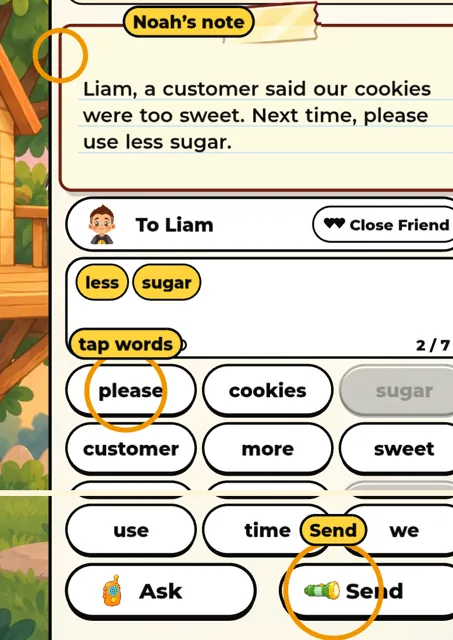
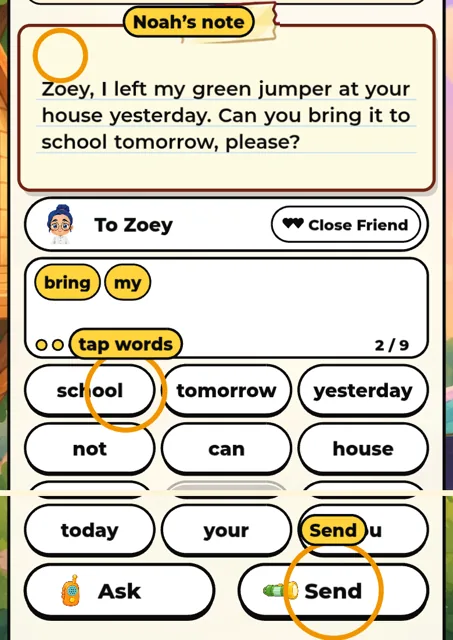
Add files via upload

diff --git a/src/modules/torch-talk/GameScene.js b/src/modules/torch-talk/GameScene.js
@@ -3,7 +3,7 @@ import { ModuleScene } from '../../core/ModuleScene.js';
 import { C, hex, FONT } from '../../core/theme.js';
 import { sfx } from '../../core/sfx.js';
 import { charImg } from '../../core/ui/dom.js';
-import { buildRound, trayOrder, QUESTIONS, TAGS, ITEM_BANK_VERSION, TUTORIAL_VERSION, tutorialMemo } from './forms.js';
+import { buildRound, trayOrder, QUESTIONS, TAGS, ITEM_BANK_VERSION, TUTORIAL_VERSION, tutorialMemo, ITEMS } from './forms.js';
 import { check, fixPasses, slotsFor, nicknames, points, ratio } from './checker.js';
 import { score, turnPoints, REACTIONS } from './scoring.js';
 import bgUrl from './assets/bg-garden.webp';
@@ -13,6 +13,7 @@ import notebookUrl from './assets/notebook.webp';
 import walkieUrl from './assets/walkie.webp';
 import pencilUrl from './assets/pencil.webp';
 import tapeUrl from './assets/tape.webp';
+import nickUrl from './assets/howto-1.webp'; // the nickname rule card's picture (request #39), reused before try-it step 4
 
 // Fixed animation budget (identical for everyone). ?speed=N (local/mock only) speeds it up for automated tests.
 const q = new URLSearchParams(location.search);
@@ -26,6 +27,7 @@ const NAMES = { liam: 'Liam', mia: 'Mia', zoey: 'Zoey', noah: 'Noah', raj: 'Raj'
 const ICON = { when: '🕒', where: '📍', who: '👤', what: '📦', howmany: '🔢' };
 // Raj and Amira are supporting characters with busts only (no full-body 'front' pose): their resting pose is 'happy'.
 const REST = (who) => (who === 'raj' || who === 'amira' ? 'happy' : 'front');
+export const RULE_CARD = { title: 'Who knows your nicknames?', body: 'Close Friends (Liam, Mia, Zoey) know your nicknames like Den. Casual Acquaintances (Raj, Amira) don’t, so spell out the real place.' };
 const HELP = '✂ Short   🎯 Say what to do   👤 Who’s reading?   ❓ Ask';
 const FAIL_TEXT = { missing: 'Hmm, something’s missing.', breaker: 'That’s not what the note says!', negated: 'That says the opposite!', order: 'The words are in a confusing order.', bind: 'Who does what? It’s mixed up.', between: 'The words are in a confusing order.' };
 /** Words in the note (italics markers and punctuation stripped), for the paraphrase signal. */
@@ -53,7 +55,7 @@ const norm = (w) => w.replace(/[^A-Za-z0-9'’\-é]/g, '').replace('’', "'").t
 
 export default class GameScene extends ModuleScene {
   preload() {
-    const imgs = { 'tt-bg': bgUrl, 'tt-torch': torchUrl, 'tt-slip': slipUrl, 'tt-notebook': notebookUrl, 'tt-walkie': walkieUrl, 'tt-pencil': pencilUrl, 'tt-tape': tapeUrl };
+    const imgs = { 'tt-bg': bgUrl, 'tt-torch': torchUrl, 'tt-slip': slipUrl, 'tt-notebook': notebookUrl, 'tt-walkie': walkieUrl, 'tt-pencil': pencilUrl, 'tt-tape': tapeUrl, 'tt-nick': nickUrl };
     Object.entries(imgs).forEach(([k, u]) => { if (!this.textures.exists(k)) this.load.image(k, u); });
     const poses = { noah: ['happy', 'worried', 'excited', 'threequarter'], liam: ['front', 'happy', 'worried', 'excited'], mia: ['front', 'happy', 'worried', 'excited'], zoey: ['front', 'happy', 'worried', 'excited'], raj: ['happy', 'worried', 'excited'], amira: ['happy', 'worried', 'excited'] };
     for (const [c, ps] of Object.entries(poses)) for (const p of ps) if (!this.textures.exists(`${c}-${p}`)) this.load.image(`${c}-${p}`, charImg(c, p));
@@ -166,6 +168,7 @@ export default class GameScene extends ModuleScene {
 
   nextTurn() {
     this.clearIdle();
+    if (this.tut && this.items[this.turnIdx + 1]?.id === 'G4a' && !this.ruleCardDone) { this.ruleCardDone = true; return this.ruleCard(() => this.nextTurn()); }
     this.turnIdx++;
     if (this.turnIdx >= this.items.length) return this.endRound();
     const it = (this.item = this.items[this.turnIdx]);
@@ -182,6 +185,21 @@ export default class GameScene extends ModuleScene {
     this.panel.setPosition(this.W, 0); this.tweens.add({ targets: this.panel, x: 0, duration: ms('noteIn'), ease: 'Cubic.easeOut' });
     sfx.play('whoosh');
     this.armIdle();
+  }
+
+  /** Request #39: the explicit nickname rule, shown once before try-it step 4 (the same words and picture as how-to card 2). */
+  ruleCard(then) {
+    this.phase = 'rule'; const { W } = this, v = this.view(), t0 = performance.now();
+    const c = this.add.container(0, 0).setDepth(960);
+    c.add(this.add.rectangle(W / 2, this.H / 2, v.vw + 40, v.vh + 40, hex(C.ink), 0.55).setInteractive());
+    const top = Math.max(v.top + 60, 150), h = 980;
+    c.add(this.add.graphics().fillStyle(hex(C.cream), 1).fillRoundedRect(40, top, W - 80, h, 36).lineStyle(5, hex(C.ink), 1).strokeRoundedRect(40, top, W - 80, h, 36));
+    c.add(this.txt(W / 2, top + 64, RULE_CARD.title, { fontSize: '40px' }));
+    c.add(this.txt(W / 2, top + 170, RULE_CARD.body, { fontSize: '27px', fontStyle: '600', wordWrap: { width: W - 150 }, lineSpacing: 4 }));
+    const img = this.add.image(W / 2, top + 290, 'tt-nick').setOrigin(0.5, 0); img.setScale(Math.min((W - 130) / img.width, 520 / img.height)); c.add(img);
+    const ok = this.btn(W / 2, top + h - 70, 'Got it', () => { this.ruleOk = null; c.destroy(); this.trace('tt_rulecard', { ms: Math.round(performance.now() - t0) }); then(); }, { w: 320 });
+    c.add(ok); this.ruleOk = () => ok.emit('pointerup'); // test hook
+    this.ruleCardShown = true;
   }
 
   // ---------------------------------------------------------------- panel rendering
@@ -507,7 +525,7 @@ export default class GameScene extends ModuleScene {
     this.clearIdle(); this.hideOverlay();
     const it = this.item, words = [...this.msg];
     if (this.setbackAt && this.phase === 'compose') { this.trace('comm_setback_next', { msToNextSend: Math.round(performance.now() - this.setbackAt), action: 'continue' }); this.setbackAt = null; }
-    let outcome;
+    let outcome; this.sentFix = this.phase === 'fix';
     if (this.phase === 'fix') {
       const pass = fixPasses(words, it);
       this.fix = { words, pass };
@@ -572,9 +590,10 @@ export default class GameScene extends ModuleScene {
     const label = outcome === 'echo' ? `${it.mixup.echo}?` : outcome === 'pass' ? '✓' : '✗';
     this.slip.add([s, this.txt(10, 8, label, { fontSize: outcome === 'echo' ? '52px' : '84px', color: outcome === 'pass' ? C.green : outcome === 'fail' ? C.red : C.ink })]);
     this.slip.setAlpha(1).setScale(0.3); this.tweens.add({ targets: this.slip, scale: 1, duration: 260, ease: 'Back.easeOut' });
-    const hold = ms('react');
+    if (outcome === 'pass' && !this.sentFix && this.cur && (!this.tut || this.cur.stepOk)) this.resultLine(this.cur);
+    const hold = ms('react') + (this.resultPill ? 700 / SPEED : 0); // a little longer to read the points line
     this.time.delayedCall(hold, () => {
-      this.slip.setAlpha(0); this.notebook.setAlpha(0); this.nbText.setAlpha(0);
+      this.slip.setAlpha(0); this.notebook.setAlpha(0); this.nbText.setAlpha(0); this.resultPill?.destroy(); this.resultPill = null;
       this.pose(this.noah, 'noah', 'happy'); this.pose(this.friend, it.recipient, REST(it.recipient));
       if (outcome === 'echo') { this.phase = 'fix'; this.cap = FIX_CAP; this.msg = []; this.renderPanel(); this.slideUp(); this.armIdle(); return; }
       if (this.tut && !this.cur.stepOk) return this.retryStep(this.cur);
@@ -583,6 +602,20 @@ export default class GameScene extends ModuleScene {
       if (this.tut) this.floatText(this.W / 2, this.L.barY - 20, this.tries === 1 ? 'First try!' : '✓ Got it', C.green);
       this.endTurn();
     });
+  }
+
+  /** Request #39: a passed message shows its points, so a padded one visibly earns less ("Got it · 4/10 · long message"). */
+  resultLine(rec) {
+    const base = rec.base ?? rec.points, why = [];
+    if (base < 10) why.push(rec.used > rec.ideal ? 'long message' : 'could be clearer');
+    if (rec.points < base) why.push(`asks −${base - rec.points}`);
+    const text = [`Got it · ${rec.points}/10`, ...why].join(' · ');
+    this.lastResult = text; // test hook
+    const t = this.txt(0, 2, text, { fontSize: '30px', fontStyle: '800' }), w = t.width + 56;
+    const c = this.add.container(this.W / 2, this.slip.y - 150).setDepth(55);
+    c.add([this.add.graphics().fillStyle(hex(C.white), 1).fillRoundedRect(-w / 2, -34, w, 68, 34).lineStyle(4, hex(C.ink), 1).strokeRoundedRect(-w / 2, -34, w, 68, 34), t]);
+    this.world.add(c); this.resultPill = c;
+    c.setScale(0.4); this.tweens.add({ targets: c, scale: 1, duration: 240, ease: 'Back.easeOut' });
   }
 
   /** Try-it step not done yet: the friend says what went wrong, then the same note comes back. After 2 tries, a fail-safe. */
@@ -695,7 +728,25 @@ export default class GameScene extends ModuleScene {
       this.callout(530, L.btnY, 76, 'Send', 530, L.btnY - 96);
       const top = L.trayY + 2 * L.tileH + L.gap + 24; // the two crops never overlap, so no row is shown twice
       return [{ x: 0, y: L.noteY - 40, w: 720, h: top - (L.noteY - 40) }, { x: 0, y: Math.max(top, L.btnY - 150), w: 720, h: L.btnY + 80 - Math.max(top, L.btnY - 150) }]; }
-    if (n === 1) { this.renderPanel();
+    if (n === 1) { // two real recipient strips + messages: a Close Friend gets the nickname, a Casual Acquaintance the real place
+      const keep = { item: this.item, msg: this.msg, cap: this.cap, phase: this.phase };
+      this.panel.removeAll(true); this.phase = 'compose';
+      const byId = Object.fromEntries(ITEMS.map((x) => [x.id, x]));
+      const rows = [[{ ...byId['A-03'], recipient: 'liam', tag: 'Close Friend' }, ['take', 'paint', 'and', 'brushes', 'den', '2pm']],
+        [{ ...byId['A-07'], recipient: 'raj', tag: 'Casual Acquaintance' }, ['bring', 'glue', 'string', "Mia's", 'garage', 'noon']]];
+      const y0 = 240;
+      this.panel.add(this.add.graphics().fillStyle(hex(C.cream), 0.97).fillRoundedRect(14, y0 - 30, this.W - 28, 640, 36).lineStyle(5, hex(C.ink), 1).strokeRoundedRect(14, y0 - 30, this.W - 28, 640, 36));
+      rows.forEach(([it, words], i) => {
+        const y = y0 + i * 300; this.item = it; this.msg = words; this.cap = words.length;
+        this.panel.add([this.recipientStrip(y), this.barView(y + 96)]);
+        this.panel.add(this.txt(636, y + 96 + 56, '✓', { fontSize: '64px', color: C.green, stroke: C.white, strokeThickness: 8 }));
+        const k = i ? words.indexOf('garage') : words.indexOf('den'), at = this.barSlots[k]; // ring the word that matters
+        if (i) this.callout(at.x, at.y, 52, 'the real place', 470, at.y + 76, 3000, false);
+        else this.callout(at.x, at.y, 44, 'nickname OK', 470, at.y + 76, 3000, false);
+      });
+      Object.assign(this, keep);
+      return { x: 0, y: y0 - 40, w: 720, h: 660 }; }
+    if (n === 2) { this.renderPanel();
       this.callout(360, L.helpY + L.helpH / 2, 80, 'the 4 rules stay here', 360, L.helpY + 120);
       this.callout(this.W - 150, 64, 46, '? reopens this card', 440, 170);
       return { x: 0, y: 20, w: 720, h: L.helpY + 190 }; }

diff --git a/src/modules/torch-talk/index.js b/src/modules/torch-talk/index.js
@@ -1,10 +1,11 @@
 // Torch Talk · effective communication (Noah). Brief: ./README.md · build pack: 11-game-concepts.md (C1 v1.1)
 import h0 from './assets/howto-0.webp';
 import h1 from './assets/howto-1.webp';
+import h2 from './assets/howto-2.webp';
 
 export default {
   id: 'torch-talk',
-  version: 5, // v5: learning v2 (#28: first completed tutorial only); v4 = how-to v3 (try-it steps) + no flashback; v3 = the v2.2 patch: item bank v2.2 with clarifier points, no round cap (itemBankVersion 3)
+  version: 6, // v6: points shown on every passed message + the nickname rule card (#39); v5: learning v2 (#28: first completed tutorial only); v4 = how-to v3 (try-it steps) + no flashback; v3 = the v2.2 patch: item bank v2.2 with clarifier points, no round cap (itemBankVersion 3)
   title: 'Torch Talk',
   tagline: 'Flash Noah’s messages across the garden. Every word costs a flash!',
   trait: 'communication',
@@ -17,7 +18,8 @@ export default {
   // How-to v3 (request #17): one opening picture + the recap card; the learning happens in the try-it steps (Practice).
   howTo: [
     { title: 'Your goal', body: 'Pass Noah’s note to a friend by torch. Tap words to build a message, then tap Send. Every word = 1 flash: send the shortest message your friend will get right.', shot: h0 },
-    { title: 'Remember', body: '✂ Short · 🎯 Clear: say what to do · 👤 Who’s reading? · ❓ Ask if something’s missing. No timer. Right but long = fewer points. Wrong = 0. Tap Practice to try it step by step.', shot: h1 },
+    { title: 'Who knows your nicknames?', body: 'Close Friends (Liam, Mia, Zoey) know your nicknames like Den. Casual Acquaintances (Raj, Amira) don’t, so spell out the real place.', shot: h1 }, // request #39
+    { title: 'Remember', body: '✂ Short · 🎯 Clear: say what to do · 👤 Who’s reading? · ❓ Ask if something’s missing. No timer. Right but long = fewer points. Wrong = 0. Tap Practice to try it step by step.', shot: h2 },
   ],
   practice: { durationSec: null, showTimer: false, scored: false }, // the 5 try-it steps (6 notes); no cap
   round: { durationSec: null, showTimer: false }, // v2.2: no timer at all; the round ends after turn 10 (idleMs is logged)

diff --git a/src/modules/mamak-rush/rules.js b/src/modules/mamak-rush/rules.js
@@ -38,7 +38,7 @@ const STREAM_B = [
 const PARKED = { id: 'tapau', item: 'roti', announce: 10, arrive: 21, waits: 3, customer: 'amira' }; // back at 7:20 (tick 21), collects automatically, waits to 7:23
 const SETBACK = { tick: 18, station: 'griddle', ticks: 3, noticeFrom: 13 }; // announced from 7:12: griddle off 7:17–7:19
 export const W = { valueDone: 0.30, expiredHigh: 0.20, halfDone: 0.20, parkedReturn: 0.15, errorsUnderLoad: 0.15 };
-export const BEST_STARS = { A: 27, B: 27 }; // o1.bestStars: the best known plan per form (demand 33 ★ > capacity)
+export const BEST_STARS = { A: 28, B: 28 }; // o1.bestStars: the TRUE maximum per form (exact search, reference v1.3; was 27). Demand 33 ★ > capacity
 
 export const FORMS = {
   A: { stream: STREAM_A, parked: PARKED, setback: SETBACK, ticks: 36, bestStars: BEST_STARS.A },

diff --git a/src/modules/mamak-rush/GameScene.js b/src/modules/mamak-rush/GameScene.js
@@ -288,7 +288,7 @@ export default class GameScene extends ModuleScene {
   render() {
     const st = this.st, t = st.tick;
     this.clockPill.text.setText(`${clock(Math.min(t, this.cfg.ticks + 1))} pm · ends ${clock(this.cfg.ticks + 1)}`);
-    this.starPill.text.setText(`★ ${this.starsNow()}`); // no "out of 27" (alpha #36: a better shift can beat it; the true max will come from Game Ideas)
+    this.starPill.text.setText(`★ ${this.starsNow()}`); // no "out of N" (alpha #36, #40)
     this.renderStrip();
     this.renderQueue();
     this.renderRow();

diff --git a/src/modules/mamak-rush/README.md b/src/modules/mamak-rush/README.md
@@ -39,7 +39,7 @@ A 7:00–7:36 pm shift on a wall clock that moves **one minute per action** and 
 ## v2 changes (build pack O1 v1.2, requests #18–20, 2026-09-28)
 - **No hand-over tap (it was a UI trap).** Amira's tapau ticket sits in a **Later** tray from 7:09 and is cooked like any order. At 7:20 she collects it automatically if it's ready; otherwise she waits (⏳ 3 min) and collects it the moment it's finished; at 7:23 she leaves. `parkedReturn` = ready on arrival 1 · finished while she waited 0.5 · she left 0.
 - **The gas outage is announced** from 7:12 on the notice bar ("⚠ Gas runs out 7:17–7:19 · griddle off") with a countdown badge on the Griddle.
-- **Score vs best possible:** `valueShare` = ★ served ÷ 27 (`o1.bestStars`); the HUD shows "★ 12 / 27" and the end card "You served 21 ★ of a possible 27 ★" + the missed orders. Careful plan 98.9 (26 ★).
+- **Score vs best possible:** `valueShare` = ★ served ÷ 28 (`o1.bestStars`, the true maximum from an exact search, reference v1.3; was 27), capped at 1. The HUD shows "★ 12" and the end card "You served 21 ★" + the missed orders (no "out of N", alpha #36/#40). Careful plan 26 ★.
 - **How-to v2:** 6 cards, each a screenshot of the real UI with callouts (`node tools/make-howto-shots.mjs mamak-rush`); **?** in play reopens cards 2–6.
 - **UI clarity kit:** the selected card glows and lifts (others dim); "1 min" floats from the station on a valid step; a wrong station shakes the card and shows a red "−1 min" (the right station is not revealed); "+★★★" flies to the counter; ⏳ ≤ 2 min turns amber with "!" and a pulse; a customer who leaves shows "−★★★ missed"; "Wait 1 min"; tapping a station with nothing selected says "Pick an order first" and uses no minute.
 - **Manglish bubbles** from a seeded line bank (`lines.js`), flavour only.
